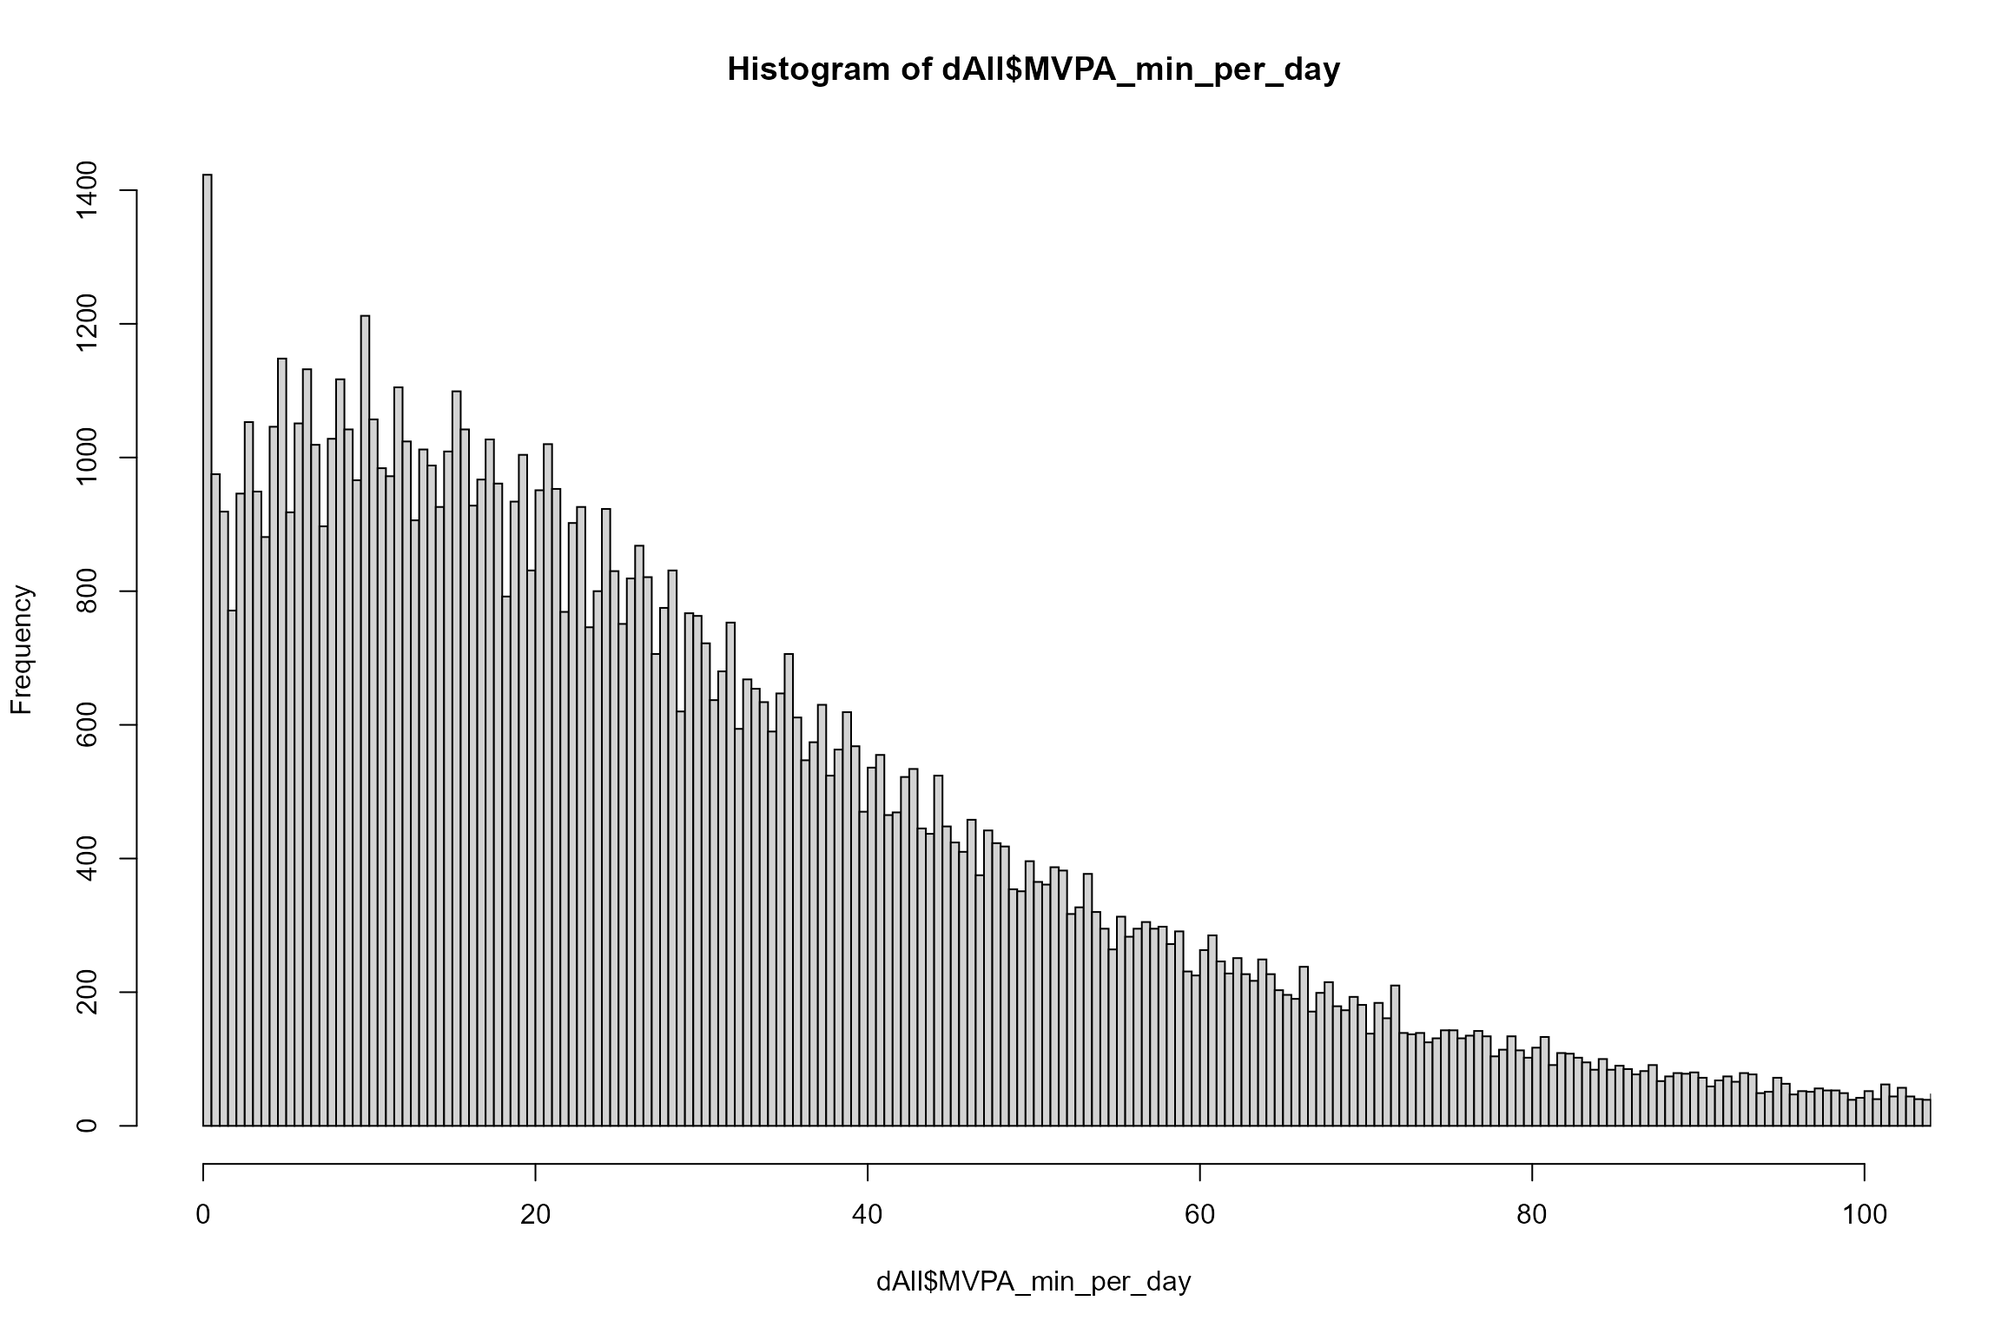
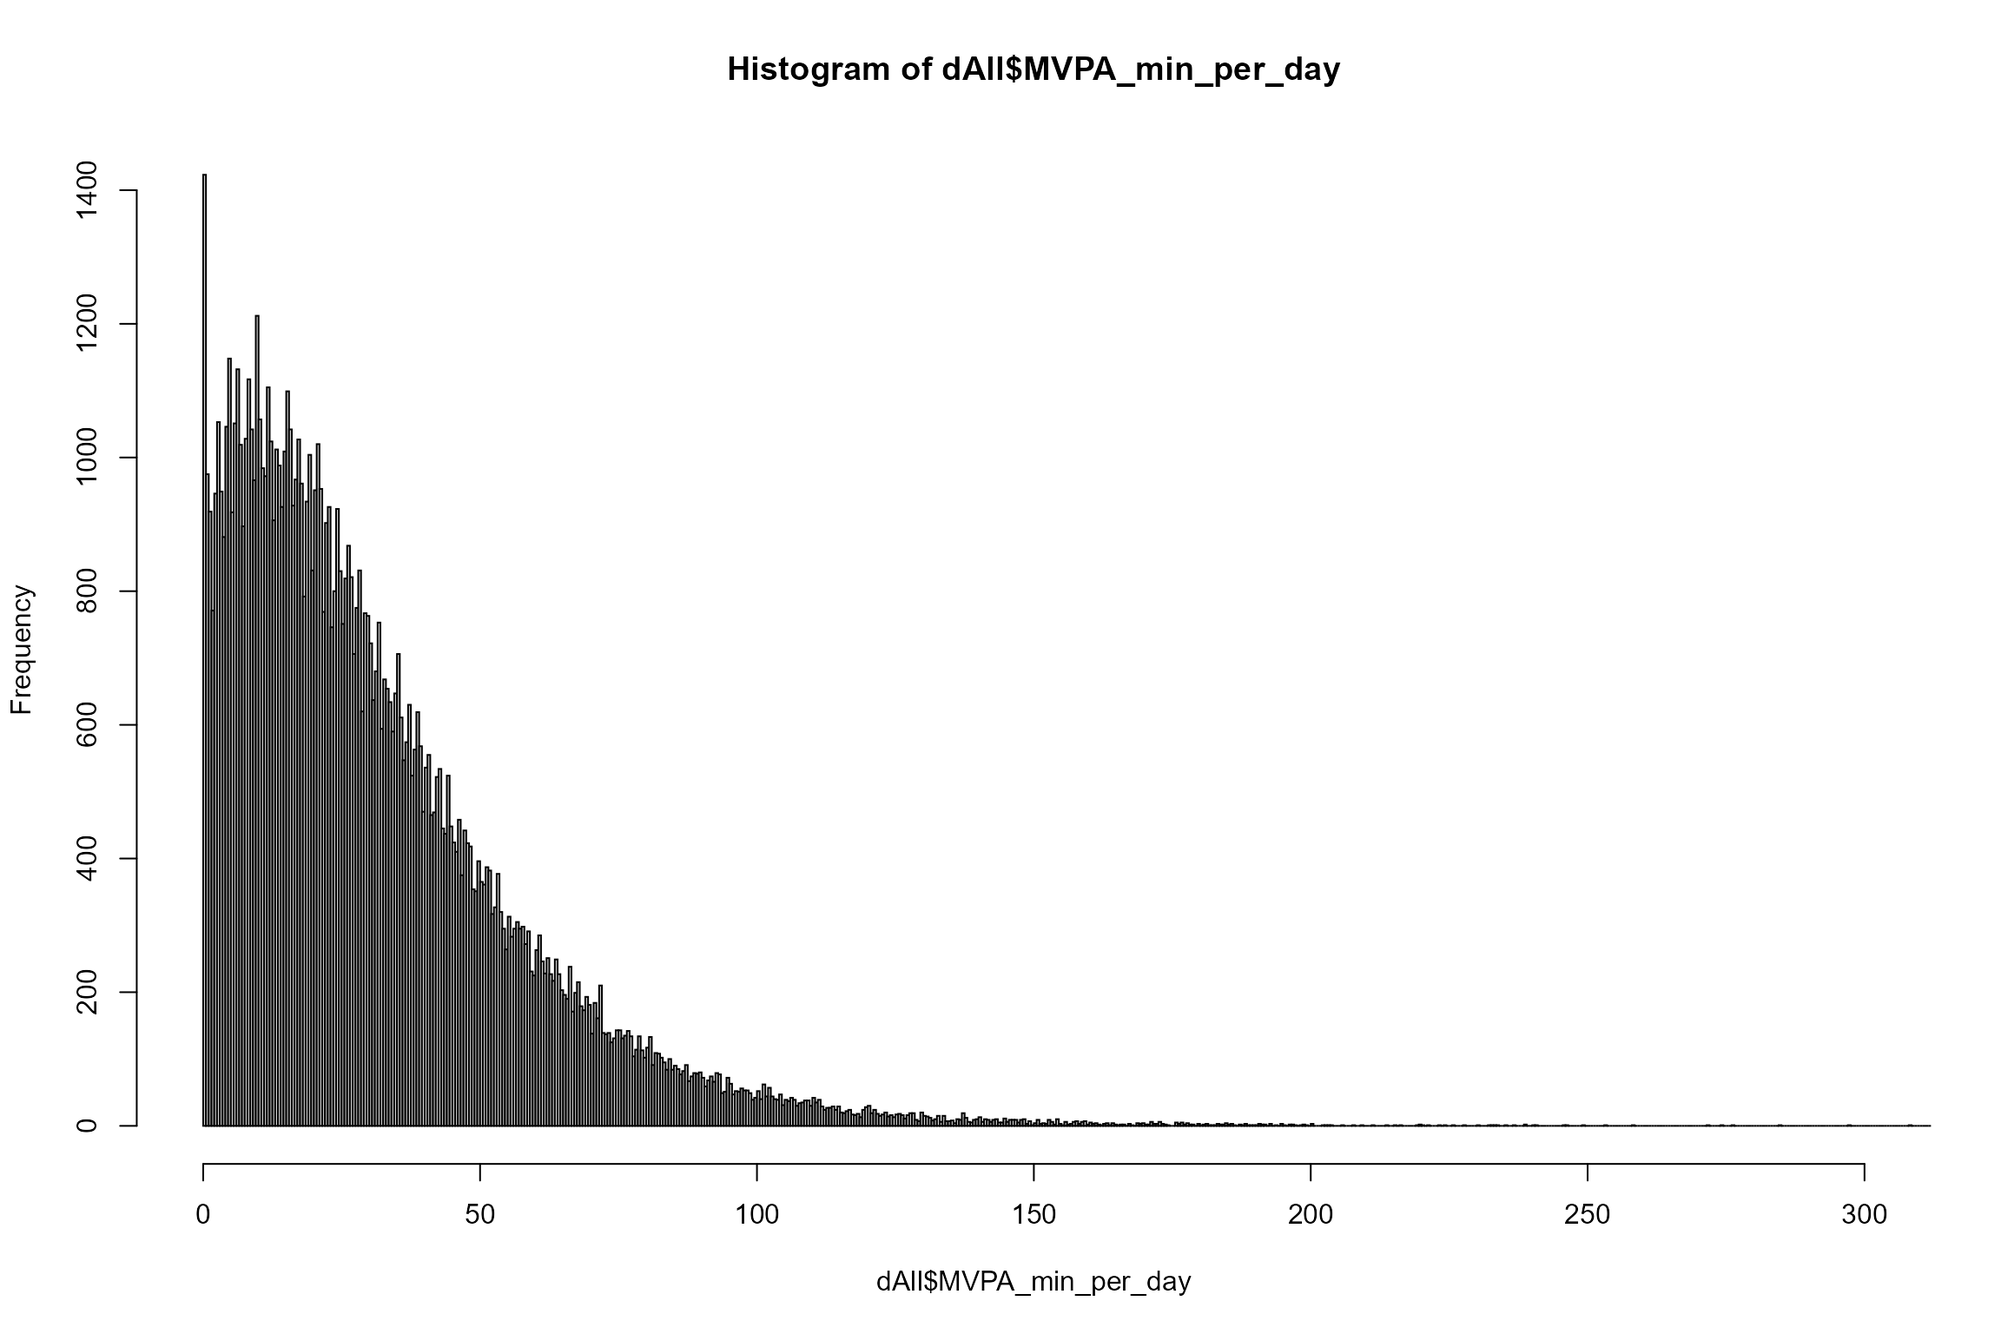
rebuild webpage with updated text

Changed region(s): [[0.0938, 0.1562, 0.9688, 0.8438], [0.7812, 0.9062, 0.8125, 0.9375]]

diff --git a/docs/articles/1_DataPrep.html b/docs/articles/1_DataPrep.html
@@ -102,8 +102,7 @@
 <div id="troubleshooting" class="section level1">
 <h1 class="hasAnchor">
 <a href="#troubleshooting" class="anchor"></a>Troubleshooting</h1>
-<p>Please note the repo contains lots of generic filenames, which you will need to update to your own filenames and locations.</p>
-<p>If nothing is working, don’t suffer in silence: we have pre-processed data you can use. Speak to Rosemary – <a href="mailto:rosemary.walmsley@gtc.ox.ac.uk" class="email">rosemary.walmsley@gtc.ox.ac.uk</a>.</p>
+<p>If nothing is working, speak to Rosemary – <a href="mailto:rosemary.walmsley@gtc.ox.ac.uk" class="email">rosemary.walmsley@gtc.ox.ac.uk</a>. If needed, we have pre-processed data you can use.</p>
 </div>
 <div id="introduction-to-available-data" class="section level1">
 <h1 class="hasAnchor">
@@ -123,35 +122,38 @@
 <li>
 <code>accelerometer-basic.csv</code>: A basic accelerometer dataset. Hopefully you will have your own version, as prepared last week.</li>
 <li>
-<code>dataset-partially-processed</code>: A partially processed dataset, for illustrative purposes.</li>
+<code>dataset-partially-processed</code>: A partially processed dataset, for this tutorial.</li>
 <li>
 <code>dataset-with-preprocessing-done.csv</code>: A dataset with the steps in this tutorial (roughly) already performed, for use in the next tutorial if needed.</li>
 <li>
 <code>ukb41733.enc_ukb</code>: A copy of all UK Biobank fields from the main dataset (i.e. not accelerometry, health data etc). Not needed for a basic analysis - see further info below.</li>
 </ul>
 <p>Data should not ever be downloaded to your local machine. All data should be deleted at the end of the Data Challenge.</p>
+<p>The next session uses Python scripts. To ensure you have the appropriate dependencies, run:</p>
+<div class="sourceCode" id="cb1"><pre class="sourceCode bash"><code class="sourceCode bash"><span id="cb1-1"><a href="#cb1-1" aria-hidden="true" tabindex="-1"></a><span class="ex">conda</span> activate wearables</span></code></pre></div>
+<p>If you later want to use RMarkdown, you might have to run: <code>conda deactivate</code>.</p>
 </div>
 <div id="processing-covariate-data" class="section level1">
 <h1 class="hasAnchor">
 <a href="#processing-covariate-data" class="anchor"></a>Processing covariate data</h1>
-<p>We will make use of a repo that Shing and Rosemary have developed for this purpose. <a href="https://ukb-download-and-prep-template.readthedocs.io/en/latest/started.html" class="external-link">Read the docs</a> and <a href="https://ukb-download-and-prep-template.readthedocs.io/en/latest/download.html#downloading-participant-data" class="external-link">find it on GitHub</a>. It uses Python scripts. To ensure you have the appropriate dependencies, you need to run</p>
-<div class="sourceCode" id="cb1"><pre class="sourceCode bash"><code class="sourceCode bash"><span id="cb1-1"><a href="#cb1-1" aria-hidden="true" tabindex="-1"></a><span class="ex">conda</span> activate wearables</span></code></pre></div>
-<p>If you later want to use RMardown, you might have to run: <code>conda deactivate</code>. There are usually three key steps:</p>
+<p>This section is included to give you an idea of how to process UK Biobank data from scratch, and to allow you to flexibly go back and consider the variables you want to use (among those available in the <a href="https://biobank.ndph.ox.ac.uk/ukb/" class="external-link">UK Biobank Data Showcase</a>). However, we have already done the steps here and saved the files for you, so there is no need to redo this.</p>
+<p>Data from UK Biobank comes in a <code>.enc_ukb</code> file, from which particular variables are extracted. Once you have an extracted <code>.csv</code> file both the column names and the variable codings need processing. Different tools are available to help with this. We’re using a repo that Shing and Rosemary have developed to get going quickly. <a href="https://ukb-download-and-prep-template.readthedocs.io/en/latest/started.html" class="external-link">Read the docs</a> and <a href="https://ukb-download-and-prep-template.readthedocs.io/en/latest/download.html#downloading-participant-data" class="external-link">find it on GitHub</a>. There are usually three key steps:</p>
 <ul>
 <li><a href="https://ukb-download-and-prep-template.readthedocs.io/en/latest/started.html#installation" class="external-link">Installation</a></li>
 <li>
 <a href="https://ukb-download-and-prep-template.readthedocs.io/en/latest/download.html#extracting-participant-data-to-csv" class="external-link">Extracting a .csv file from the .enc_ukb file</a> (don’t do this until you’ve read on!)</li>
 <li><a href="https://ukb-download-and-prep-template.readthedocs.io/en/latest/core.html#relabelling-and-recoding-participant-data" class="external-link">Automated pre-processing of all variables</a></li>
 </ul>
-<p>As step 2 takes a long time, we’ve already done it using a generic set of analysis variables (corresponding to those in <code>analysisCols.txt</code> in the above repo). The output from that is the <code>ukb41733.csv</code> file in the folder - and you can go ahead and use it for step 3. If you do end up needing other variables, feel free to go back and try step 2 - the <code>ukb41733.enc_ukb</code> file is available for this purpose. You will need to copy it to another folder to work with it (as the processing file needs to write to the folder it is in) and also change the permissions on <code>ukbconv</code> so it is executable (<code>chmod u+x ukbconv</code>)</p>
-<p>Most of the time, you can use this preprocessing pipeline in a fairly blind way. However, <em>a word of caution</em>: variables in UK Biobank come with instances and array indices. In the csv file before processing, they are named as fieldnumber.instance.array_index (e.g. 2443.1.0 for the first item (“0”) at the first repeat visit (“1”)). Repeat 1 was a resurvey among a limited number of participants, repeat 2 is the imaging revisit. Both apply only to a subset of participants. More importantly, some variables have multiple items, as participants could check multiple boxes (e.g. <a href="https://biobank.ndph.ox.ac.uk/ukb/field.cgi?id=6138" class="external-link">6138</a> on qualifications) or had multiple measures taken (e.g. blood pressure measurements) In these cases, you’ll have to <a href="https://ukb-download-and-prep-template.readthedocs.io/en/latest/advanced.html" class="external-link">change the defaults</a> to usefully use the variables.</p>
+<p>We’ve done step 2 using a generic (and large!) set of analysis variables, corresponding to those in <code>analysisCols.txt</code> in the above repo. The output from that is the <code>ukb41733.csv</code> file in the folder - and you can go ahead and use it for step 3. If you need other variables, feel free to go back and try step 2 - the <code>ukb41733.enc_ukb</code> file is available for this purpose. You will need to copy it to another folder to work with it (as the processing file needs to write to the folder it is in) and also change the permissions on <code>ukbconv</code> so it is executable (<code>chmod u+x ukbconv</code>).</p>
+<p>We’ve also done step 3 with the same set of columns: this is <code>dataset-partially-processed.csv</code> (which has also had some health data added). If you go back and do step 2 you’ll have to do step 3 too. You might also jump in at step 3 if you want instances and array indices other than the first measurement at baseline assessment (see next paragraph).</p>
+<p>You can often use this preprocessing pipeline in a fairly blind way. However, <em>a word of caution</em>: variables in UK Biobank come with instances and array indices. In the csv file before processing, they are named as fieldnumber.instance.array_index (e.g. 2443.1.0 for the first item (“0”) at the first repeat visit (“1”)). Repeat 1 was a resurvey among a limited number of participants, repeat 2 is the imaging revisit. Both apply only to a subset of participants. More importantly, some variables have multiple items, as participants could check multiple boxes (e.g. <a href="https://biobank.ndph.ox.ac.uk/ukb/field.cgi?id=6138" class="external-link">6138</a> on qualifications) or had multiple measures taken (e.g. blood pressure measurements) In these cases, you’ll have to <a href="https://ukb-download-and-prep-template.readthedocs.io/en/latest/advanced.html" class="external-link">change the defaults</a> to usefully use the variables.</p>
 <p>Finding this hard to use? Spotted a bug? We’d love to get feedback and to make it as user-friendly as possible.</p>
 </div>
 <div id="processing-health-outcomes-data" class="section level1">
 <h1 class="hasAnchor">
 <a href="#processing-health-outcomes-data" class="anchor"></a>Processing health outcomes data</h1>
 <p>The next step is to add health outcomes data to the covariate data file. Follow <a href="https://ukb-download-and-prep-template.readthedocs.io/en/latest/core.html#adding-hospital-episode-statistics" class="external-link">these steps</a>.</p>
-<p>Note that this describes working with Hospital Episode Statistics (<code>hesin_all.csv</code>). You will probably also want to use data on deaths, which can be found in the <code>death.txt</code> and <code>death_cause.txt</code> files. (Even if mortality is not your outcome, if you are doing analyses of survival data, participants are censored at death for other outcomes. Also, sometimes a disease event may appear in the death register without appearing in hospital episode statistics e.g. a fatal stroke occurring outside of hospital would be recorded on the death register but not in HES).</p>
+<p>This describes working with Hospital Episode Statistics (<code>hesin_all.csv</code>). You will probably also want to use data on deaths, which can be found in the <code>death.txt</code> and <code>death_cause.txt</code> files. (Even if mortality is not your outcome, if you are doing analyses of survival data, participants are censored at death for other outcomes. Also, sometimes a disease event may appear in the death register without appearing in Hospital Episode Statistics e.g. a fatal stroke occurring outside of hospital would be recorded on the death register but not in HES).</p>
 <p>Censoring dates for all outcome data are the most recent available in the Data Portal (<a href="https://biobank.ctsu.ox.ac.uk/crystal/exinfo.cgi?src=Data_providers_and_dates" class="external-link uri">https://biobank.ctsu.ox.ac.uk/crystal/exinfo.cgi?src=Data_providers_and_dates</a>) i.e. 31/12/20 for the death register; 31/12/20 for HES in England and Scotland, 28/02/18 for HES in Wales.</p>
 </div>
 <div id="merging-data-files" class="section level1">
@@ -219,8 +221,8 @@
 <div id="preprocessing" class="section level1">
 <h1 class="hasAnchor">
 <a href="#preprocessing" class="anchor"></a>Preprocessing</h1>
-<p>Covariate data has had some rough preprocessing already performed, corresponding to use of the UK Biobank data dictionary. However, this is automated and imperfect. For example, some numeric variables may have special values indicating missing data, which have not been automatically processed (an example is <a href="https://biobank.ndph.ox.ac.uk/showcase/field.cgi?id=1309" class="external-link">fresh fruit intake</a>).</p>
-<p>Now is a good time to look at the variables you’re planning to use in more detail, understand their distribution, recode any values you wish to recode, and change groupings as required. For example, the <a href="https://biobank.ndph.ox.ac.uk/showcase/field.cgi?id=21000" class="external-link">ethnicity variable</a> has many distinctions, some of which apply to very few participants, so you may wish to recode it for statistical analyses.</p>
+<p>As described above the data has had some rough preprocessing already performed, corresponding to use of the UK Biobank data dictionary to recode variables. However, this is automated and imperfect. For example, some numeric variables may have special values indicating missing data, which have not been automatically processed (an example is <a href="https://biobank.ndph.ox.ac.uk/showcase/field.cgi?id=1309" class="external-link">fresh fruit intake</a>).</p>
+<p>Now is a good time to look at the variables you’re planning to use in more detail, understand their distribution, recode any values you wish to recode, and change groupings as required. For example, the <a href="https://biobank.ndph.ox.ac.uk/showcase/field.cgi?id=21000" class="external-link">ethnicity variable</a> has many distinctions, some of which apply to very few participants, so you may wish to recode it for statistical analyses. Spending time understanding the data in detail now will not be wasted!</p>
 <p>One thing you will need to do is add an age-at-accelerometer-wear variable. Here’s an example of some code to do that:</p>
 <div class="sourceCode" id="cb8"><pre class="downlit sourceCode r">
 <code class="sourceCode R"><span class="co"># ADD DATE OF BIRTH</span>

diff --git a/docs/articles/2_HealthAssociationAnalysis.html b/docs/articles/2_HealthAssociationAnalysis.html
@@ -250,19 +250,21 @@
 <div class="sourceCode" id="cb5"><pre class="downlit sourceCode r">
 <code class="sourceCode R">
 <span class="co">#look at deciles</span>
-<span class="fu"><a href="https://rdrr.io/r/stats/quantile.html" class="external-link">quantile</a></span><span class="op">(</span><span class="va">dAll</span><span class="op">$</span><span class="va">acc.overall.avg</span>, prob <span class="op">=</span> <span class="fu"><a href="https://rdrr.io/r/base/c.html" class="external-link">c</a></span><span class="op">(</span><span class="fl">0.10</span>, <span class="fl">0.50</span>, <span class="fl">0.90</span><span class="op">)</span>, na.rm <span class="op">=</span> <span class="cn">TRUE</span><span class="op">)</span>
-<span class="co">#&gt;      10%      50%      90% </span>
-<span class="co">#&gt; 18.74054 27.14073 38.45913</span>
+<span class="fu"><a href="https://rdrr.io/r/stats/quantile.html" class="external-link">quantile</a></span><span class="op">(</span><span class="va">dAll</span><span class="op">$</span><span class="va">acc.overall.avg</span>, prob <span class="op">=</span> <span class="fu"><a href="https://rdrr.io/r/base/seq.html" class="external-link">seq</a></span><span class="op">(</span><span class="fl">0.1</span>, <span class="fl">0.9</span>, by <span class="op">=</span> <span class="fl">0.1</span><span class="op">)</span>, na.rm <span class="op">=</span> <span class="cn">TRUE</span><span class="op">)</span>
+<span class="co">#&gt;      10%      20%      30%      40%      50%      60%      70%      80% </span>
+<span class="co">#&gt; 18.74054 21.44339 23.48021 25.32063 27.14073 29.05999 31.28748 34.11230 </span>
+<span class="co">#&gt;      90% </span>
+<span class="co">#&gt; 38.45913</span>
 
 <span class="co"># MVPA</span>
-<span class="fu"><a href="https://rdrr.io/r/graphics/hist.html" class="external-link">hist</a></span><span class="op">(</span><span class="va">dAll</span><span class="op">$</span><span class="va">MVPA_min_per_day</span>, breaks<span class="op">=</span><span class="fl">1000</span>, xlim<span class="op">=</span><span class="fu"><a href="https://rdrr.io/r/base/c.html" class="external-link">c</a></span><span class="op">(</span><span class="fl">0</span>,<span class="fl">100</span><span class="op">)</span><span class="op">)</span></code></pre></div>
+<span class="fu"><a href="https://rdrr.io/r/graphics/hist.html" class="external-link">hist</a></span><span class="op">(</span><span class="va">dAll</span><span class="op">$</span><span class="va">MVPA_min_per_day</span>, breaks<span class="op">=</span><span class="fl">1000</span>, xlim<span class="op">=</span><span class="fu"><a href="https://rdrr.io/r/base/c.html" class="external-link">c</a></span><span class="op">(</span><span class="fl">0</span>,<span class="fl">300</span><span class="op">)</span><span class="op">)</span></code></pre></div>
 <p><img src="2_HealthAssociationAnalysis_files/figure-html/unnamed-chunk-2-2.png" width="1152"></p>
 <div class="sourceCode" id="cb6"><pre class="downlit sourceCode r">
 <code class="sourceCode R">
 <span class="co">#look at deciles</span>
-<span class="fu"><a href="https://rdrr.io/r/stats/quantile.html" class="external-link">quantile</a></span><span class="op">(</span><span class="va">dAll</span><span class="op">$</span><span class="va">acc.overall.avg</span>, prob <span class="op">=</span> <span class="fu"><a href="https://rdrr.io/r/base/c.html" class="external-link">c</a></span><span class="op">(</span><span class="fl">0.10</span>, <span class="fl">0.50</span>, <span class="fl">0.90</span><span class="op">)</span>, na.rm <span class="op">=</span> <span class="cn">TRUE</span><span class="op">)</span>
-<span class="co">#&gt;      10%      50%      90% </span>
-<span class="co">#&gt; 18.74054 27.14073 38.45913</span></code></pre></div>
+<span class="fu"><a href="https://rdrr.io/r/stats/quantile.html" class="external-link">quantile</a></span><span class="op">(</span><span class="va">dAll</span><span class="op">$</span><span class="va">MVPA_min_per_day</span>, prob <span class="op">=</span> <span class="fu"><a href="https://rdrr.io/r/base/seq.html" class="external-link">seq</a></span><span class="op">(</span><span class="fl">0.1</span>, <span class="fl">0.9</span>, by <span class="op">=</span> <span class="fl">0.1</span><span class="op">)</span>, na.rm <span class="op">=</span> <span class="cn">TRUE</span><span class="op">)</span>
+<span class="co">#&gt;     10%     20%     30%     40%     50%     60%     70%     80%     90% </span>
+<span class="co">#&gt;  4.7808  9.5040 14.2128 19.2096 24.6960 30.9888 38.7216 49.0752 65.9088</span></code></pre></div>
 <p>We can have a look at some of the machine-learned variables, to see if we believe them! Here we’ll look at plots of probability of being in a particular behaviour by time of day:</p>
 <div class="sourceCode" id="cb7"><pre class="downlit sourceCode r">
 <code class="sourceCode R"><span class="fu"><a href="../reference/plotAverageDay.html">plotAverageDay</a></span><span class="op">(</span><span class="va">dAll</span>, <span class="st">"sleep.hourOfDay."</span>, <span class="st">".avg"</span>, <span class="st">"Sleep (probability)"</span><span class="op">)</span></code></pre></div>
